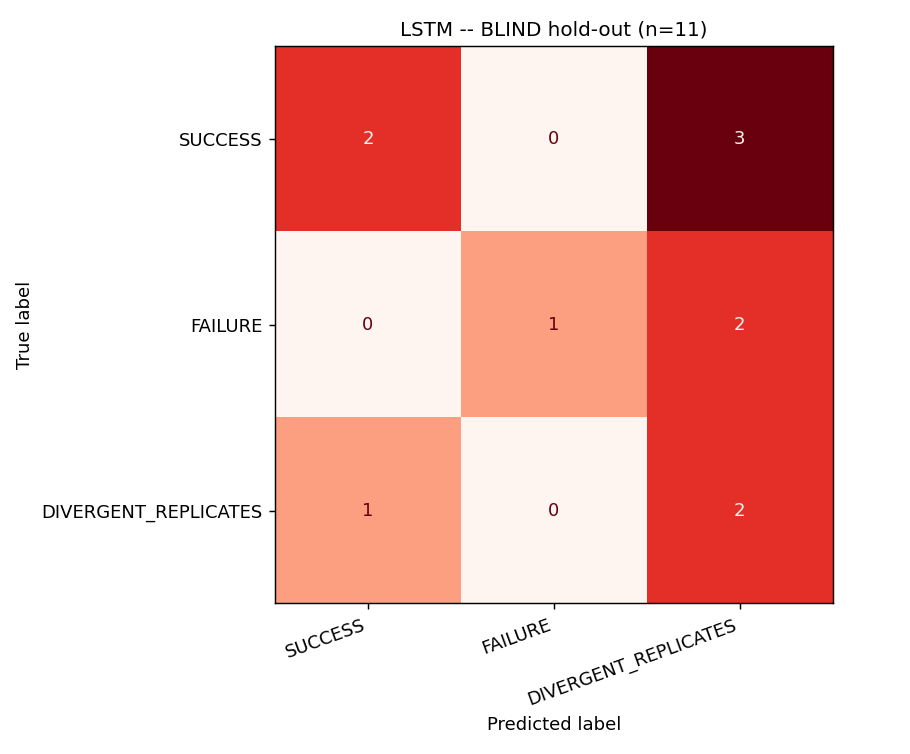
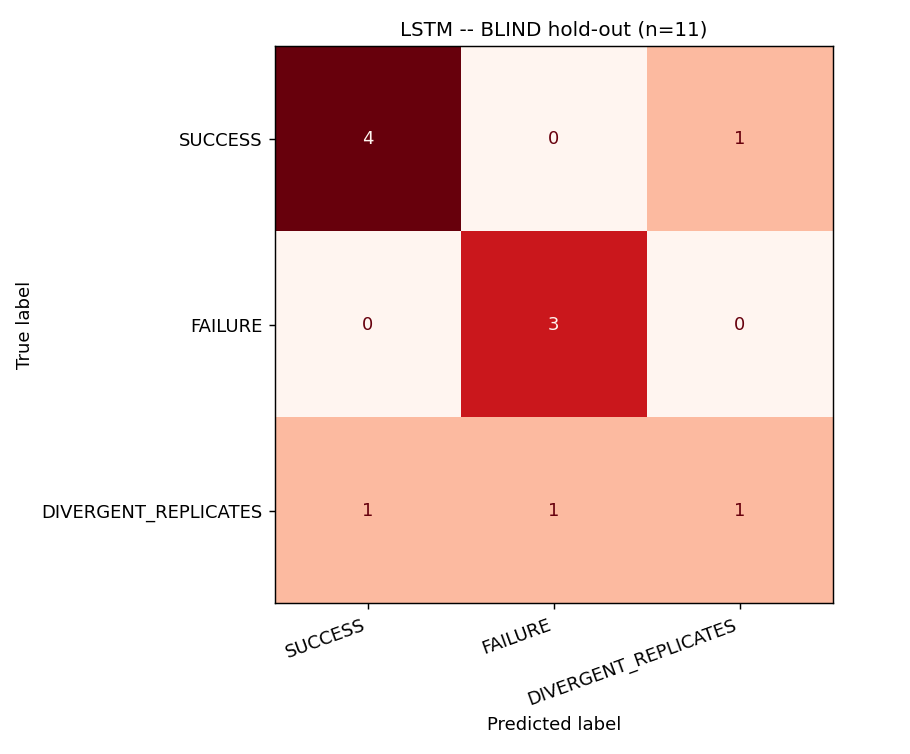
Rerun holdout_validation.py with promoted LSTM, close staleness gap
holdout_validation_results.txt still showed the pre-augmentation LSTM's
45.5% hold-out accuracy after the model promotion. Reran with the
single-replicate-augmented model now in lstm_probe_stage.pt: LSTM
hold-out accuracy is 0.727, matching lstm_augmented_metrics.txt.
Gatekeeper/regression numbers unaffected (deterministic rerun).

diff --git a/qtwin/docs/Known_Limitations_Master.md b/qtwin/docs/Known_Limitations_Master.md
@@ -146,6 +146,12 @@ summarizes, it doesn't replace the originals as the source of truth.
   the scope caveat. Target 3.77 µM (n=3, also very small). All three numbers
   are illustrative given the tiny n, not conclusive. *Source:
   `holdout_validation_results.txt`.*
+- **`holdout_validation_results.txt` re-run (2026-09-12) with the promoted
+  single-replicate-augmented LSTM** — its LSTM hold-out line now reads
+  0.727 (gap vs. 33-chip accuracy: +0.031), matching
+  `lstm_augmented_metrics.txt` exactly. Regression/gatekeeper numbers were
+  unaffected (deterministic re-run, only the LSTM predictions changed).
+  This closes the staleness gap flagged right after the LSTM promotion.
 
 ## Replicate divergence (cross-cutting)
 
